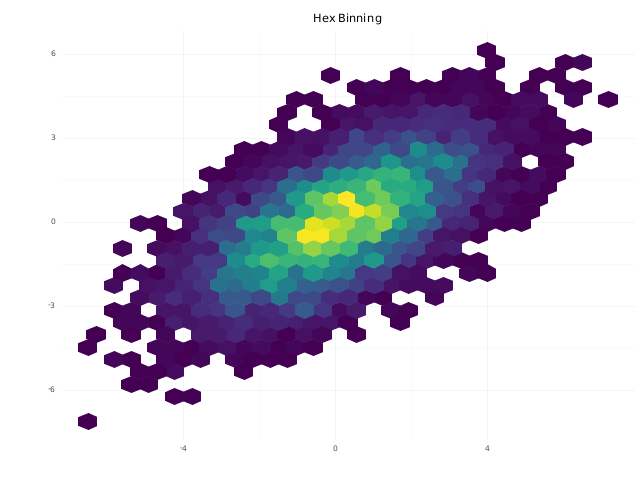
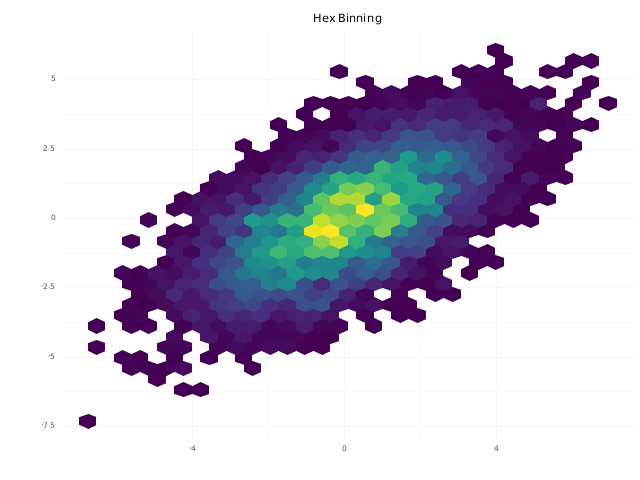
release: 0.20.0 — CHANGELOG, gallery, docs, version bump
Date the 0.19.0 CHANGELOG header 2026-10-16 (published then, per the
plan's facts) and add the [0.20.0] entry: Added (arrows, linewidth,
hex binning in data units, identity colour/fill scales, interactive
aesthetics, coord_sf xlim/ylim/expand + svg_root_data), Changed
(hexbin cell geometry, curve as a native quadratic path, theme_void
ticks — the last already true on main, called out as carried over
rather than new), and Breaking (new pub fields on
GeomSegment/Curve/Path/Line/LineStyle needing `..Default::default()`;
StatBinHex's fields/output not back-compat; three new Aesthetic
variants).

examples/gallery.rs: add flows() (curved arrows between cities —
B1-2/B1-3's Arrow + B1-4's linewidth + B1-6's identity colour scale,
the overlay style anofox-visualization's #308 draws). hexbin()
unchanged in code — it already exercises the rewritten StatBinHex/
GeomHex — but its output now shows a real hex lattice instead of
floor-binned rectangles. Regenerated the gallery
(`cargo run --features sf --example gallery`); jitter.png/qq.png also
changed (pre-existing per-run jitter randomness, unrelated to this
batch). README gains a flows.png entry.

docs/WEB_INTERACTIVITY.md: new "Mark attribute contract" section
documenting data-x/data-series/data-value (pre-existing), data-part
(arrowheads and other geom sub-marks), Aes::tooltip, and
Aes::data_attr, with the replace-not-duplicate and
byte-identical-when-unused guarantees.
[…]

diff --git a/examples/gallery.rs b/examples/gallery.rs
@@ -71,6 +71,7 @@ fn main() -> Result<(), Box<dyn std::error::Error>> {
     density()?;
     contour_filled()?;
     hexbin()?;
+    flows()?;
     heatmap()?;
     jitter()?;
     ribbon()?;
@@ -356,6 +357,67 @@ fn hexbin() -> Result<(), Box<dyn std::error::Error>> {
         .title("Hex Binning")
         .theme_minimal()
         .save_with_size(&out("hexbin"), W, H)?;
+    Ok(())
+}
+
+/// Directed flows between cities: curved arrows (B1-2/B1-3), sized by
+/// `scale_linewidth` (B1-4) and coloured by `scale_colour_identity` (B1-6) —
+/// the overlay style `anofox-visualization` draws on top of a basemap
+/// (#308).
+fn flows() -> Result<(), Box<dyn std::error::Error>> {
+    let cities = df! {
+        "x" => [0.0, 4.0, 2.0, 6.0, 1.0],
+        "y" => [0.0, 1.0, 4.0, 3.5, 3.0],
+        "name" => ["Berlin", "Warsaw", "Oslo", "Helsinki", "Copenhagen"],
+    }?;
+    let flows = df! {
+        "x" => [0.0, 4.0, 2.0, 1.0],
+        "y" => [0.0, 1.0, 4.0, 3.0],
+        "xend" => [4.0, 2.0, 6.0, 0.0],
+        "yend" => [1.0, 4.0, 3.5, 0.0],
+        "size" => [12.0, 4.0, 7.0, 2.5],
+        "trend" => ["#2f9e44", "#e03131", "#2f9e44", "#e03131"],
+    }?;
+
+    let mut theme = theme_minimal();
+    theme.axis_text_x.visible = false;
+    theme.axis_text_y.visible = false;
+
+    GGPlot::new(flows)
+        .aes(
+            Aes::new()
+                .x("x")
+                .y("y")
+                .xend("xend")
+                .yend("yend")
+                .color("trend")
+                .linewidth("size"),
+        )
+        .geom_curve_with(
+            GeomCurve::default()
+                .curvature(0.2)
+                .lineend(LineEnd::Round)
+                .arrow(
+                    arrow()
+                        .closed()
+                        .angle(26.565)
+                        .length(5.0)
+                        .length_per_linewidth(2.2)
+                        .position(0.85),
+                ),
+        )
+        .geom_point_with(GeomPoint {
+            size: 5.0,
+            color: (40, 44, 52),
+            alpha: 1.0,
+        })
+        .layer_data(cities)
+        .layer_aes(Aes::new().x("x").y("y"))
+        .scale_colour_identity()
+        .scale_linewidth(ScaleLinewidthContinuous::new().with_range(0.75, 8.0))
+        .title("Flows Between Cities")
+        .theme(theme)
+        .save_with_size(&out("flows"), W, H)?;
     Ok(())
 }
 

diff --git a/CHANGELOG.md b/CHANGELOG.md
@@ -3,7 +3,83 @@
 All notable changes to this project are documented here. The format follows
 [Keep a Changelog](https://keepachangelog.com/en/1.1.0/).
 
-## [0.19.0] — unreleased
+## [0.20.0] — 2026-10-20
+
+Minor bump: new public API (arrows, linewidth, hex binning in data units,
+interactive aesthetics). `LineStyle` gains a `lineend` field, and
+`GeomSegment`/`GeomCurve`/`GeomPath`/`GeomLine` gain `arrow`/`lineend` fields,
+so struct literals without `..Default::default()` need them added.
+`StatBinHex`'s fields and output columns are not back-compat with 0.19.0's.
+Default output is otherwise unchanged, except hexbin cell geometry, curve
+rendering (a native quadratic Bézier `<path>` instead of a flattened
+polyline), and `theme_void`'s axis ticks reserving no layout space (already
+true on `main`, carried over here).
+
+### Added
+
+- `LineEnd { Butt, Round, Square }` and `LineStyle::lineend`; `DrawBackend`
+  gains a default `draw_quadratic(p0, ctrl, p1, style)`, overridden by the
+  SVG backend to emit a native `<path d="M.. Q..">`.
+- `src/geom/arrow.rs`: `Arrow` (grid's `arrow()`: `angle`, `length`, `ends`,
+  `kind`, plus the `position`/`length_per_linewidth` extensions) via the
+  `arrow()` builder. `GeomSegment`/`GeomCurve`/`GeomPath`/`GeomLine` gain
+  `arrow`/`lineend` fields and `.arrow() .lineend() .linewidth()` builders
+  (curve also `.curvature() .ncp()`); segment and curve honour per-row
+  mapped `linetype` and `alpha` (previously ignored).
+- `Aesthetic::Linewidth` ("linewidth") with `Aes::linewidth()` /
+  `Aes::after_stat_linewidth()`; `src/scale/linewidth.rs`'s
+  `ScaleLinewidthContinuous` (range, limits/squish, transform, breaks,
+  labels, locale); `GGPlot::scale_linewidth()`; a legend key drawn as a
+  horizontal line of the mapped width. Segment/curve read it per row;
+  path/line per point, drawing segment-by-segment when it varies within a
+  group.
+- `StatBinHex` rewritten onto a fixed pointy-top hex lattice
+  (`src/stat/binhex::HexLattice`; cube-rounded point assignment, `locate()`,
+  deterministic `binwidth`/`origin` rules) instead of floor-binned
+  staggered rectangles anchored at the data minimum. New output columns:
+  `count, density, ncount, ndensity, width, height, n, q, r` (`fill`
+  stays as `count`, back-compat). `GeomHex` draws each hexagon's vertices
+  in data space (from `width`/`height`, falling back to the data's
+  resolution) and projects each individually — correct under any coord,
+  including `coord_sf`.
+- `src/scale/identity.rs`: `ScaleColorIdentity` reads `#RRGGBB`/`#RGB` hex
+  strings directly, with no legend; `GGPlot::scale_colour_identity()` /
+  `scale_color_identity()` / `scale_fill_identity()`.
+- Interactive aesthetics: `Aesthetic::Tooltip` (`Aes::tooltip(col)`, a
+  custom `<title>`) and `Aesthetic::DataAttr` (`Aes::data_attr(name, col)`,
+  a custom `data-<name>` attribute; `name` must match `[a-z0-9][a-z0-9-]*`).
+  `DrawBackend::set_mark_attrs`/`set_mark_part` (the latter also used by
+  arrowheads: `data-part="arrow" aria-hidden="true"`, no `<title>`). A user
+  attr replaces a built-in of the same name rather than duplicating it.
+- `CoordSf::xlim`/`ylim` (zoom, no filtering) and `expand(bool)`, via a new
+  default `Scale::set_expand(mult, add)`; `GGPlot::coord_sf_with(CoordSf)`
+  and `svg_root_data(bool)` (default `true`; off omits `data-plot`/
+  `data-domain`/etc from the root `<svg>`) — for a consumer overlaying a
+  rendered fragment on its own basemap.
+
+### Changed
+
+- Hexbin cell geometry: `StatBinHex` no longer floor-bins staggered
+  rectangles anchored at the data minimum, so cell positions differ from
+  0.19.0 (deterministic, but not reproducible against old output). See
+  "Added" above.
+- `geom_curve` draws a native quadratic Bézier `<path d="M.. Q..">`
+  instead of a flattened `<polyline>`; `ncp` is now ignored by SVG
+  (documented) since a single control point fully determines the curve.
+- `theme_void`'s `axis_ticks_length: 0.0` (blank ticks reserve no layout
+  space) — already the case on `main`; carried over, not a new change here.
+
+### Breaking
+
+- `LineStyle` gains `lineend: LineEnd`; `GeomSegment`, `GeomCurve`,
+  `GeomPath`, `GeomLine` gain `arrow: Option<Arrow>` and
+  `lineend: LineEnd`; `StatBinHex`'s fields and output columns are not
+  back-compat with 0.19.0. Struct literals need `..Default::default()`.
+- `Aesthetic` gains `Linewidth`, `Tooltip` and `DataAttr(String)`
+  variants — an exhaustive match on `Aesthetic` needs a catch-all or the
+  new arms.
+
+## [0.19.0] — 2026-10-16
 
 Minor bump: new public API. `Theme` and `ThemeUpdate` gain two fields, so a
 struct literal without `..Default::default()` needs them added. Default output

diff --git a/docs/WEB_INTERACTIVITY.md b/docs/WEB_INTERACTIVITY.md
@@ -70,3 +70,57 @@ highlight *generically* instead of via bespoke per-demo code.
   reported in place, never blanks the page.
 - **Verify natively.** Every rendering change is checked with a native
   `render_svg_native`/raster snapshot before it ships to the browser.
+
+## Mark attribute contract (0.20.0)
+
+Every drawn mark on the native SVG backend carries a small, predictable set of
+`data-*` attributes and (usually) a `<title>` hover tooltip — the substrate the
+JS runtime above hit-tests and reads from, without per-chart glue code.
+
+**Built-in, set by the geom:**
+
+- `data-x` — the row's x-axis key (for axis-pointer-style grouping).
+- `data-series` — the row's colour/fill/group level.
+- `data-value` — the row's raw (unformatted) measured value.
+- `<title>` — a geom-computed hover tooltip (e.g. `"(2.1, 4.3)"`, `"group:
+  12.4"`).
+
+**`data-part` — sub-marks of a larger geom.** A decorative sub-mark (so far,
+only an arrowhead on segment/curve/path/line — `arrow()`) carries
+`data-part="arrow"` and `aria-hidden="true"`, and never a `<title>`: the
+parent mark already carries the semantic tooltip, and assistive tech should
+skip the decoration. `[data-part="arrow"]` is a stable CSS/JS selector for
+styling or excluding these sub-marks.
+
+**`Aes::tooltip(col)` — override the tooltip.** Maps a column to the mark's
+`<title>`, replacing whatever the geom would have computed. Escaped like any
+other text. Dropped by a computing stat (e.g. `stat_bin`) unless the stat is
+`StatIdentity`, since the column isn't part of its output — the same rule as
+`linetype`/`alpha`.
+
+**`Aes::data_attr(name, col)` — a custom `data-*` attribute.** Maps a column
+to `data-<name>` on the mark. `name` must match `[a-z0-9][a-z0-9-]*`
+(lowercase alphanumerics and hyphens, like a real HTML dataset key); an
+invalid name is skipped with a build warning rather than failing the render.
+A `data_attr` with the same name as a built-in (`data-x`, `data-series`,
+`data-value`) **replaces** it — an element never carries the same attribute
+name twice.
+
+```rust
+GGPlot::new(flows)
+    .aes(Aes::new().x("x").y("y").xend("xend").yend("yend")
+        .tooltip("label")
+        .data_attr("orig", "origin_city")
+        .data_attr("row", "id"))
+    .geom_curve_with(GeomCurve::default().arrow(arrow().closed()))
+    .render_svg_native_with_size(800, 600)?;
+```
+
+renders e.g. `<path d="M.. Q.." data-x="…" data-series="…" data-orig="Berlin"
+data-row="42"><title>Berlin → Warsaw</title></path>`, with its arrowhead as
+`<polygon data-orig="Berlin" data-row="42" data-part="arrow"
+aria-hidden="true"/>` (no `<title>`).
+
+**Layers that map neither `tooltip` nor any `data_attr` render byte-identical
+output** — the mark-attribute machinery (`geom::set_row_extras`) is a no-op
+when the built data has neither column.

diff --git a/README.md b/README.md
@@ -88,6 +88,10 @@ choropleth needs the `sf` feature; drop it for the rest).
   </tr>
   <tr>
     <td align="center">
+      <img src="assets/gallery/flows.png" width="260" alt="Flows between cities"><br>
+      <sub>Directed flows · <code>geom_curve</code> + <code>arrow()</code></sub>
+    </td>
+    <td align="center">
       <img src="assets/gallery/ribbon.png" width="260" alt="Ribbon"><br>
       <sub>Confidence band · <code>geom_ribbon</code></sub>
     </td>
@@ -95,6 +99,8 @@ choropleth needs the `sf` feature; drop it for the rest).
       <img src="assets/gallery/area.png" width="260" alt="Stacked area"><br>
       <sub>Stacked area · <code>geom_area</code></sub>
     </td>
+  </tr>
+  <tr>
     <td align="center">
       <img src="assets/gallery/facet.png" width="260" alt="Facet wrap"><br>
       <sub>Small multiples · <code>facet_wrap</code></sub>
